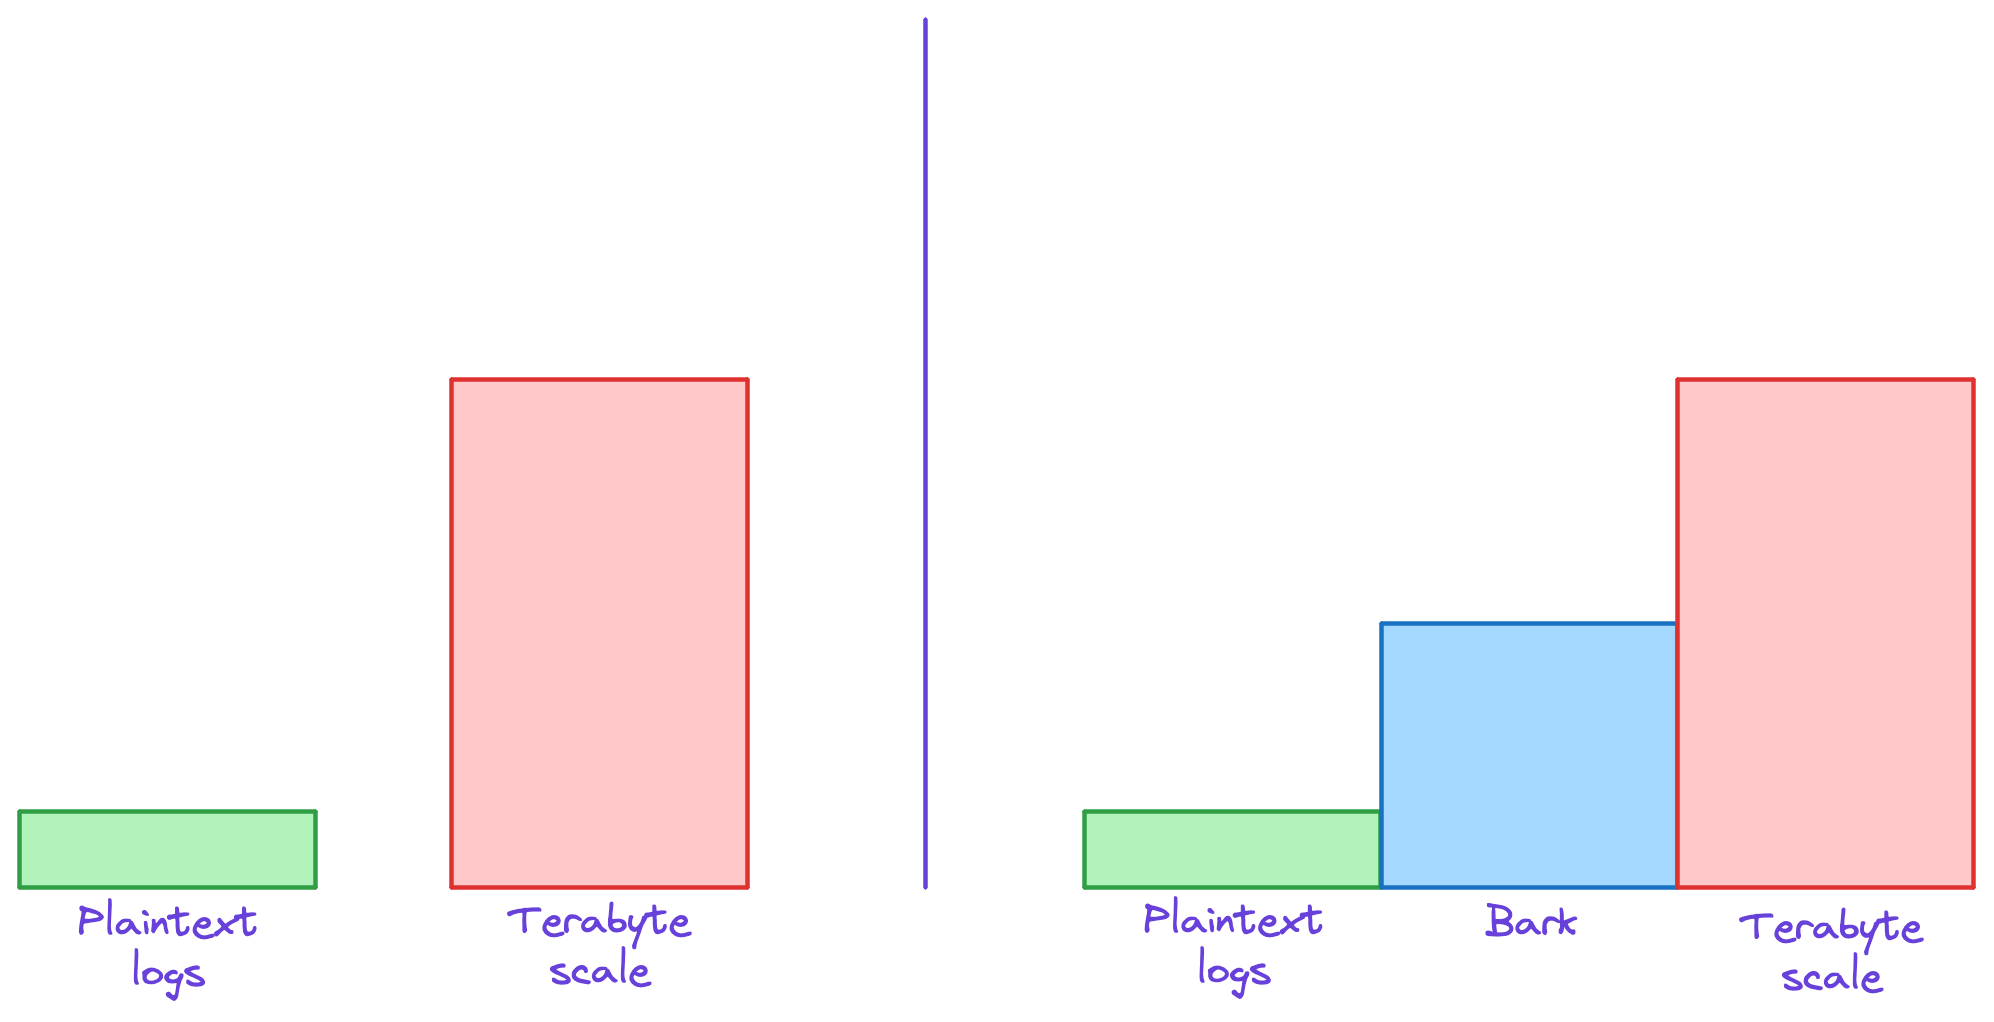
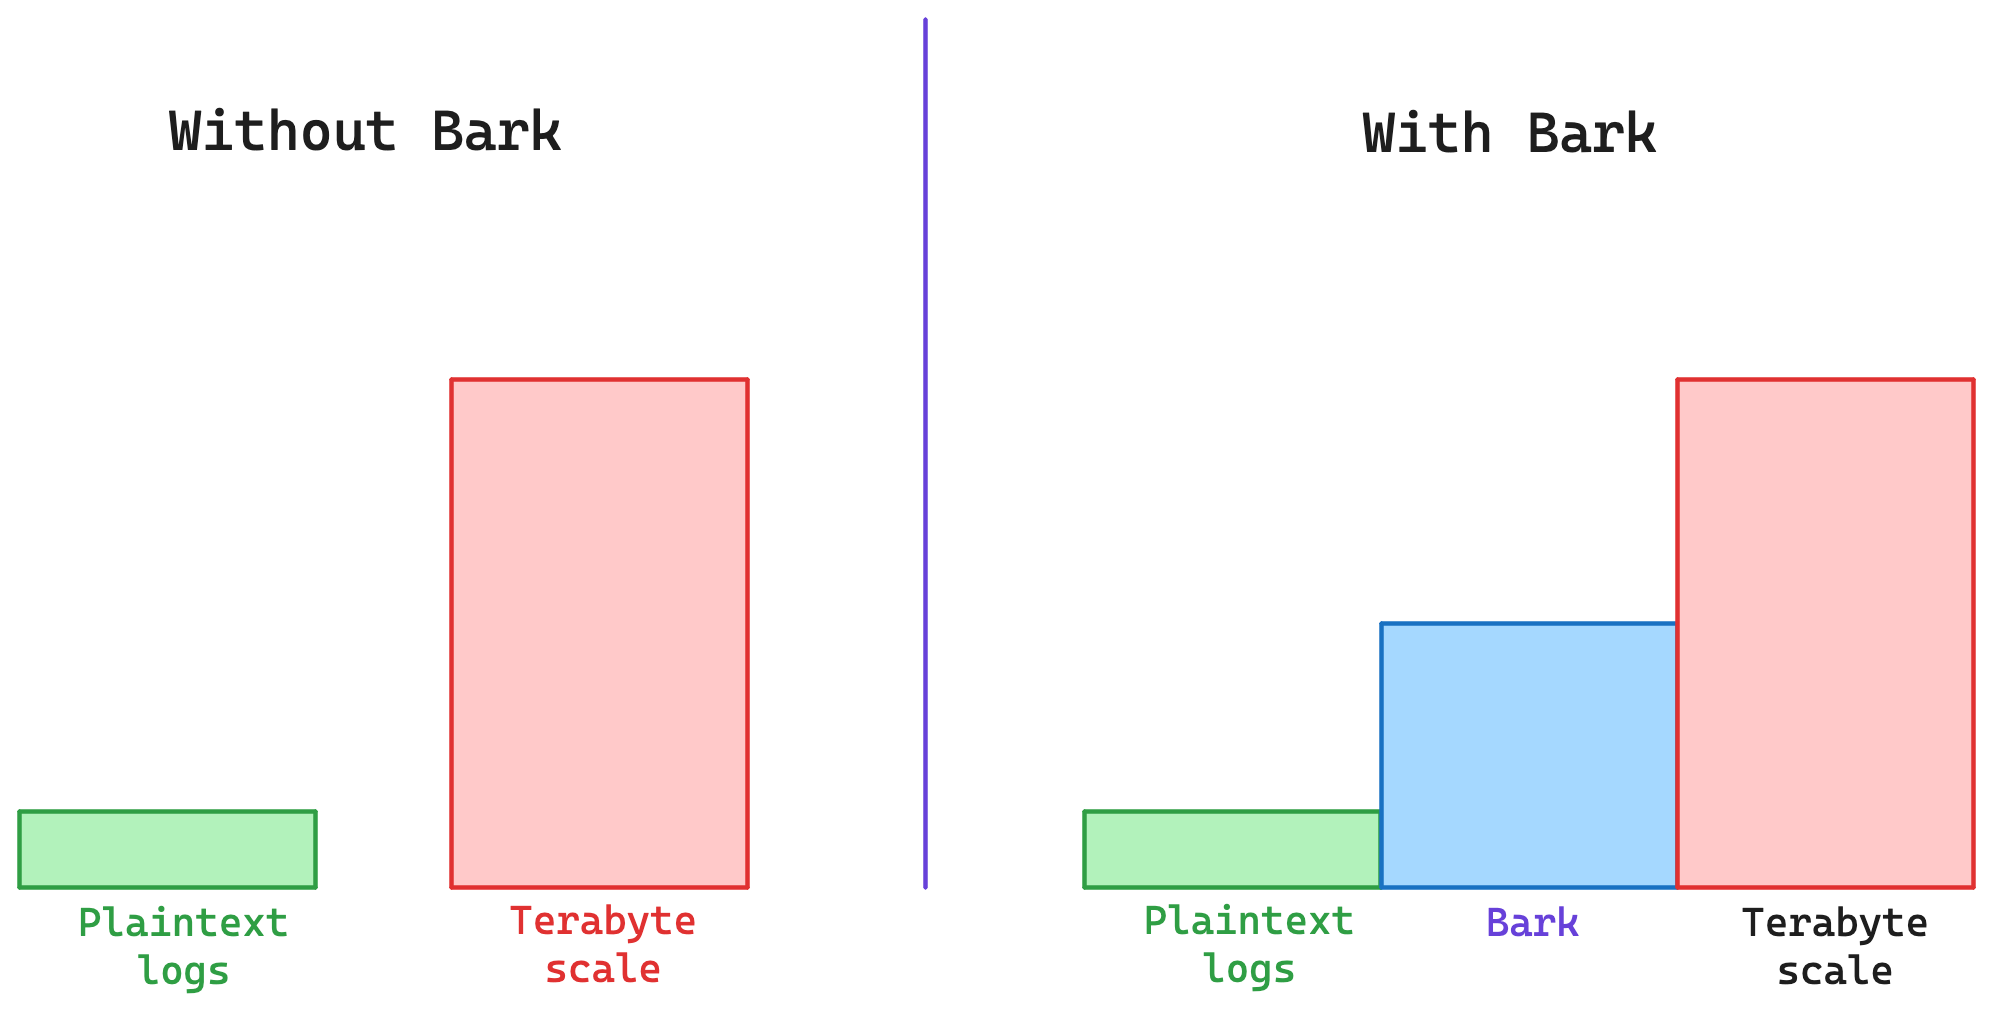
image added

diff --git a/README.md b/README.md
@@ -17,6 +17,9 @@ So it takes time to install, configure and learn such solutions.
 However, between the basic HTTP server and the enterprise scale, as we grow, we still need to be able to store, process, analyze and search through our logs.
 
 # Aim of this project
+
+![Image](https://raw.githubusercontent.com/techrail/bark/main/_nocode/images/where-bark-fits.png)
+
 Bark aims to fill the gap that exists between simple file-based logging and a large log aggregation solution. Bark is: 
 
 - **Easy to setup**: We use PostgreSQL for storing logs. It is cross-platform and installing it is easy. You probably already have it installed for your regular services anyway!
